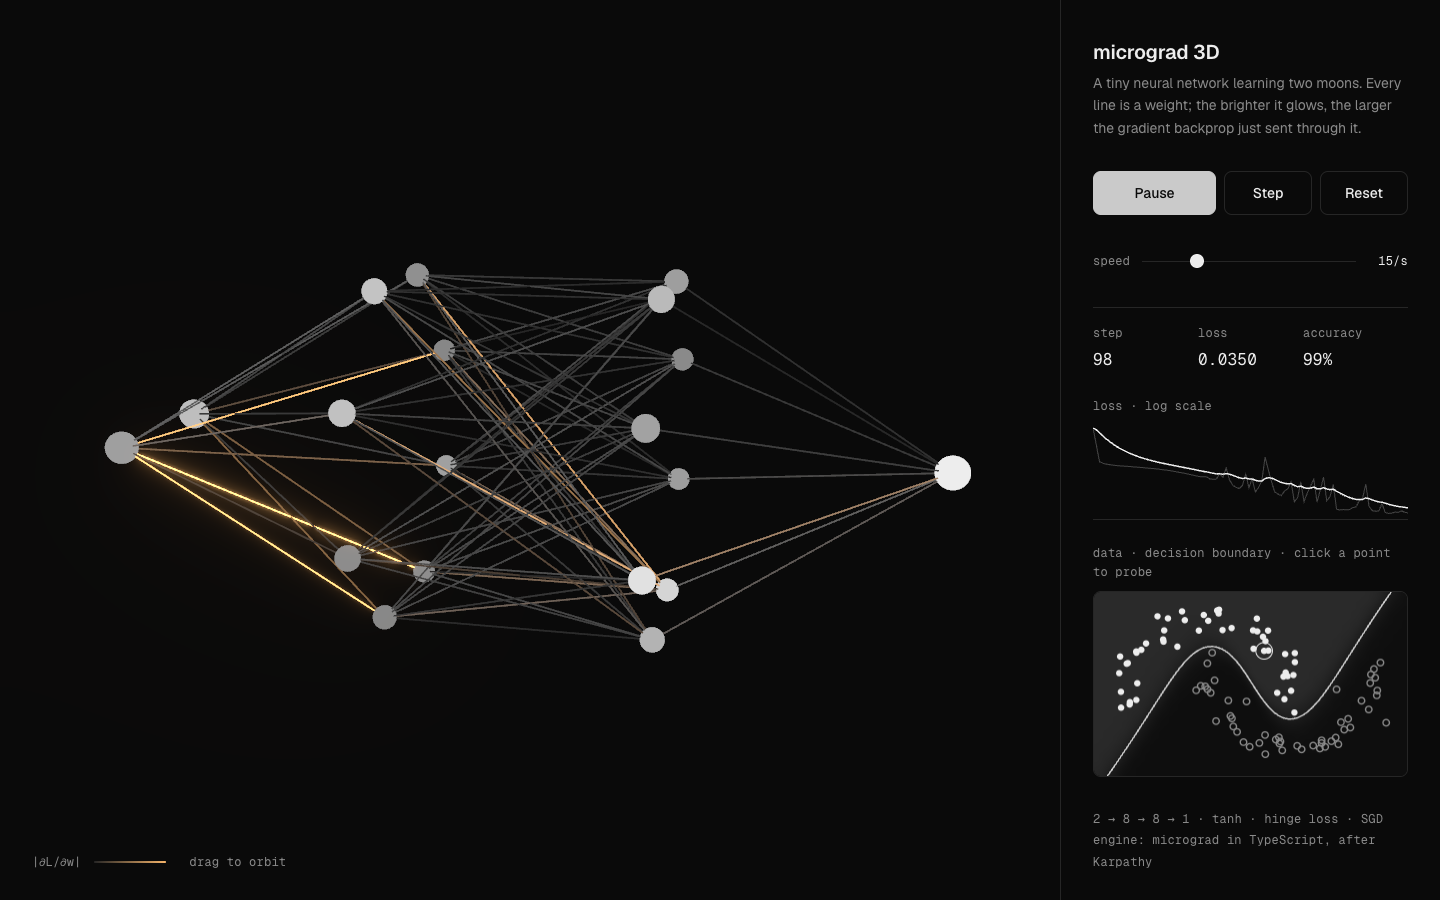
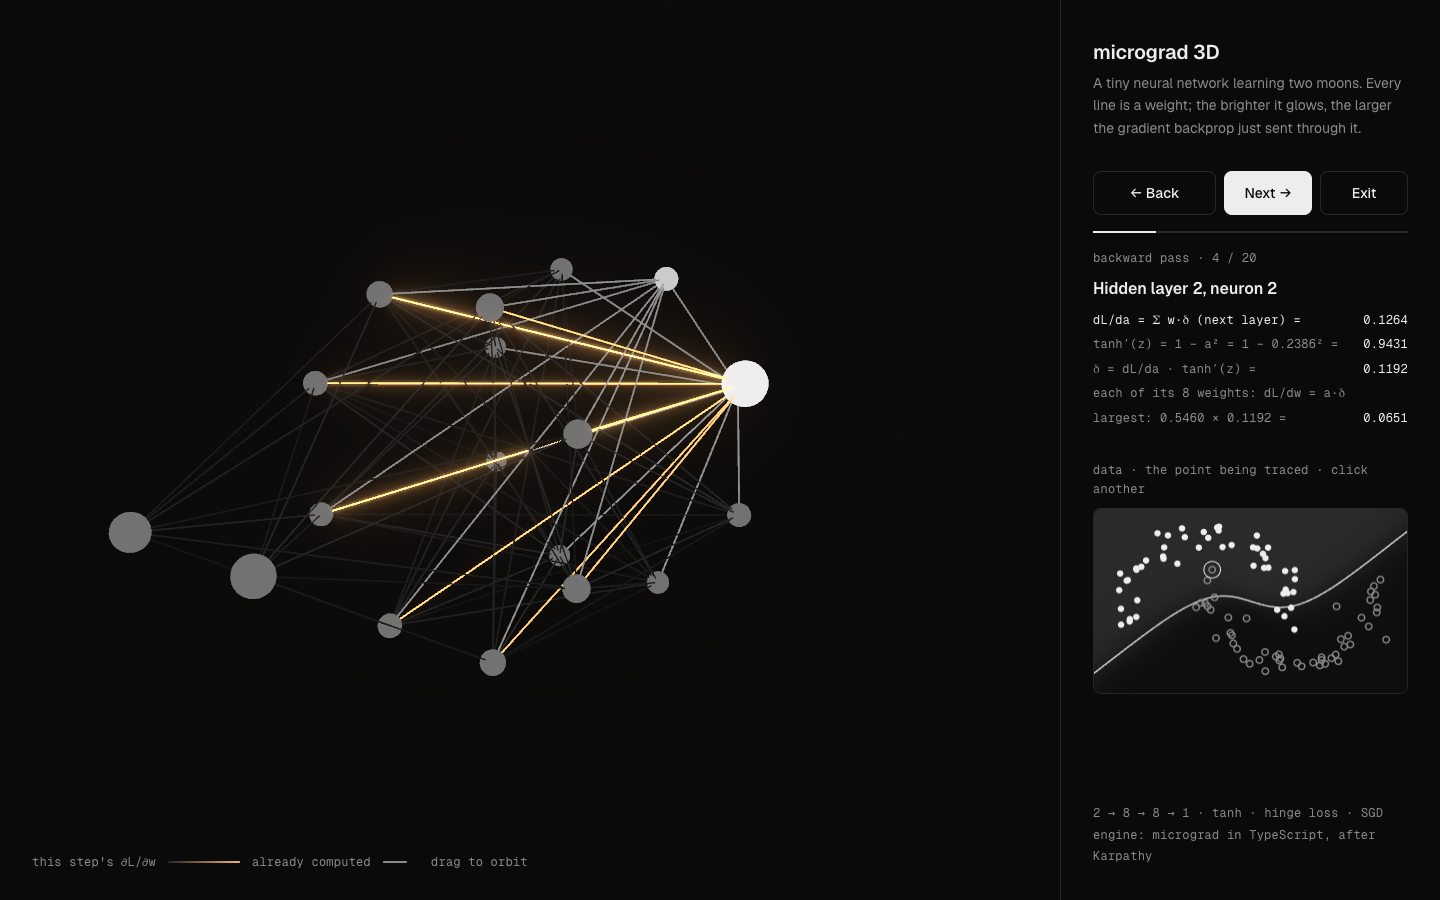
Add Attention, in space; micrograd 3D copy to v1.1; 2x2 home grid
- Work: "Attention, in space" written from its README only (tiny
  char-level GPT on Shakespeare, 809,856 params, NumPy-trained, val loss
  1.53, runs in the browser); cover is the layer-2 head-3 sweep.
- micrograd 3D: v1.1 step-through backprop in the copy, Now page and the
  second image (docs/screenshot.png from the repo).
- Home: works pair in two columns; the first is featured only when the
  count is odd, so four works sit as a calm 2x2.

Gates PASS; Lighthouse median 100 on all pages, mobile and desktop.

diff --git a/src/data/works.ts b/src/data/works.ts
@@ -1,10 +1,11 @@
-// The site's list of works. Home and Work render whatever is here, in this order;
-// the first entry is the featured (full-width) card on Home.
-// Case-study copy comes from each project's own material: SPEC.md for micrograd 3D (~/Developer/micrograd-3d)
-// and Eden (~/Developer/eden-film); the piece itself for Almost Ripe (vault 02 Projects/作品集/04 Almost Ripe/).
+// The site's list of works. Home and Work render whatever is here, in this order.
+// Home pairs them in two columns; with an odd count the first is featured full width.
+// Case-study copy comes from each project's own material: SPEC.md + README.md for micrograd 3D
+// (~/Developer/micrograd-3d) and Eden (~/Developer/eden-film); the piece itself for Almost Ripe
+// (vault 02 Projects/作品集/04 Almost Ripe/); README.md for Attention, in space (vault …/05 Attention, in space/).
 // Keep it factual: no claims that the specs, commits, renders or the piece don't back up.
 //
-// To add a work (e.g. "Attention in space" once it has material in the vault):
+// To add a work:
 //   1. copy its stills into src/assets/ (16:9 or wider reads best; 1920 px wide if available);
 //   2. import them below and add one entry to `works` with id, title, tagline, year, form, tools,
 //      status, live, cover (+ optional extra) and What / How / Next sections;
@@ -17,6 +18,8 @@ import edenTree from '../assets/eden-tree.png';
 import edenAerial from '../assets/eden-aerial.png';
 import almostRipeTower from '../assets/almost-ripe-tower.png';
 import almostRipeCorridor from '../assets/almost-ripe-corridor.png';
+import attentionHead from '../assets/attention-head.png';
+import attentionAll from '../assets/attention-all.png';
 
 export interface Work {
   id: string;
@@ -72,13 +75,54 @@ export const works: Work[] = [
     ],
   },
   {
+    id: 'attention',
+    title: 'Attention, in space',
+    tagline: 'Watch a tiny GPT read, in 3D, while you type.',
+    year: '2026',
+    form: 'Interactive, in the browser',
+    tools: 'NumPy · three.js · Web Workers',
+    status: 'Finished, private for now',
+    live: false,
+    cover: {
+      src: attentionHead,
+      alt: 'Letters of a line of text along the bottom and four layers above them; in layer 2 a bright golden fan of arcs sweeps from one letter back across the earlier ones.',
+      caption: 'Layer 2, head 3: a word-boundary head, looking back to the last space or line break.',
+    },
+    extra: {
+      src: attentionAll,
+      alt: 'All four layers at once: hundreds of thin golden arcs rising between the letters of “LEONTES: She is, let me, but”, with the model’s next-letter guesses along the top.',
+      caption: 'All layers, heads averaged, while the model writes.',
+    },
+    sections: [
+      {
+        heading: 'What',
+        body: [
+          'A tiny character-level GPT, trained from scratch on Shakespeare, running entirely in the browser. The letters you type sit along the bottom and four layers stack above them. Each glowing arc is a letter looking back at an earlier one, brighter the harder it looks, and the top row is the model’s guess at what comes next. It follows micrograd 3D: that piece shows a tiny network learning, this one shows a transformer reading.',
+        ],
+      },
+      {
+        heading: 'How',
+        body: [
+          'nanoGPT’s design, scaled down to 809,856 parameters: 4 layers, 4 heads, 64 characters of context. PyTorch could not be installed, so it is written in pure NumPy with a hand-derived backward pass, checked against finite differences, and trained in 32 minutes on 2 CPU cores to a validation loss of 1.53.',
+          'The weights ship as int8 inside the page. The forward pass runs in a Web Worker so the 3D view never waits, and every arc is one ribbon in a single mesh, its width set on the GPU.',
+        ],
+      },
+      {
+        heading: 'Next',
+        body: [
+          'Its spelling is mostly right and it has the shape of a play, but the meaning is nonsense. 60 frames a second still needs checking on real hardware; so far it has only run under software WebGL.',
+        ],
+      },
+    ],
+  },
+  {
     id: 'micrograd-3d',
     title: 'micrograd 3D',
     tagline: 'Watch a tiny neural network learn, one gradient at a time.',
     year: '2026',
     form: 'Interactive, in the browser',
     tools: 'TypeScript · React Three Fiber',
-    status: 'v1 runs locally',
+    status: 'v1.1 runs locally',
     live: false,
     cover: {
       src: microgradNetwork,
@@ -87,8 +131,8 @@ export const works: Work[] = [
     },
     extra: {
       src: micrograd,
-      alt: 'The whole micrograd 3D page: the 3D network on the left; on the right, play, step and reset controls, a speed slider, step, loss and accuracy readouts, a loss curve and the two-moons data plot with its decision boundary.',
-      caption: 'The whole page: controls, loss curve, and the decision boundary bending through the data (99% accuracy).',
+      alt: 'micrograd 3D in backprop mode: one neuron bright in the 3D network with its incoming weights glowing, and a panel on the right working through the chain rule for hidden layer 2, neuron 2, step 4 of 20, above the two-moons plot with the traced point circled.',
+      caption: 'v1.1, stepping through backprop: hidden layer 2, neuron 2, with the chain rule written out.',
     },
     sections: [
       {
@@ -101,13 +145,13 @@ export const works: Work[] = [
         heading: 'How',
         body: [
           'A 2 → 8 → 8 → 1 network learns the two-moons dataset with hinge loss and plain gradient descent. Every neuron is a sphere and every one of its 88 weights is a line. A line glows warm in proportion to the gradient backprop just sent through it, so you see where learning flows rather than what the weights are.',
-          'Beside it, the decision boundary bends through the data and a loss curve falls on a log scale. Play, pause, step, or run it at up to 120 steps a second. Tests check the gradients against values worked out by hand and against finite differences.',
+          'Beside it, the decision boundary bends through the data and a loss curve falls on a log scale. Play, pause, step, or run it at up to 120 steps a second. Pause at any moment to step through one point’s backward pass, neuron by neuron, with the chain rule written out. Tests check the gradients against values worked out by hand and against finite differences.',
         ],
       },
       {
         heading: 'Next',
         body: [
-          'A mode that replays the backward pass node by node, then a public demo.',
+          'A public demo.',
         ],
       },
     ],
